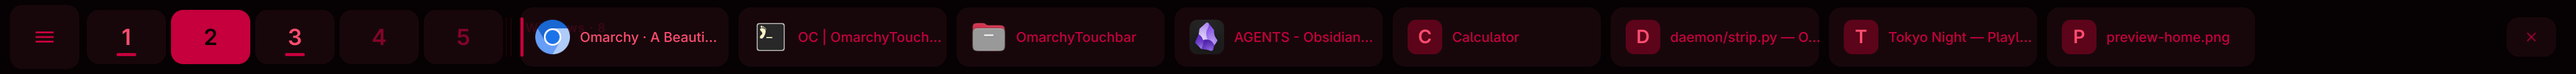
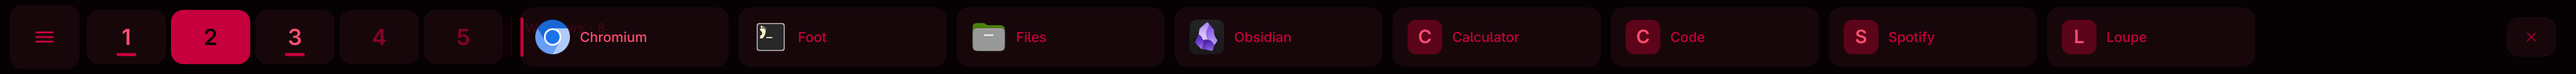
Paint app names in the window drawer, never window titles
The rendered SVG is published world-readable under /etc/tiny-dfr, so window
titles could expose document names or message subjects to other local users.
Titles now stop at hypr.py's parse: the drawer resolves a display name from the
desktop entry (or prettifies the class) and keeps the app icon. Several windows
of one app get an ordinal so they stay tellable apart.

diff --git a/daemon/icons.py b/daemon/icons.py
@@ -41,18 +41,30 @@ def _icon_theme() -> str:
     return name or "Adwaita"
 
 
+def _prettify_class(app_class: str) -> str:
+    """firefox -> Firefox, google-chrome -> Google Chrome, org.gnome.Foo -> Foo."""
+    tail = app_class.rsplit(".", 1)[-1]
+    tail = re.sub(r"[-_]+", " ", tail).strip()
+    if not tail:
+        return "Window"
+    return tail.title() if tail.islower() else tail
+
+
 class IconResolver:
     def __init__(self) -> None:
         self.theme = _icon_theme()
         self._desktop: dict[str, str] | None = None
         self._by_wm_class: dict[str, str] | None = None
+        self._app_names: dict[str, str] = {}
         self._cache: dict[str, str | None] = {}
+        self._name_cache: dict[str, str] = {}
 
     # -- desktop entries -----------------------------------------------------
 
     def _load_desktop_entries(self) -> None:
         by_id: dict[str, str] = {}
         by_class: dict[str, str] = {}
+        names: dict[str, str] = {}
         for directory in APP_DIRS:
             try:
                 entries = list(directory.iterdir())
@@ -61,19 +73,27 @@ class IconResolver:
             for entry in entries:
                 if entry.suffix != ".desktop":
                     continue
-                icon, wm_class = self._parse_desktop(entry)
+                name, icon, wm_class = self._parse_desktop(entry)
+                stem = entry.stem.lower()
+                if name:
+                    names.setdefault(stem, name)
+                    names.setdefault(stem.replace("_", "-"), name)
+                    if wm_class:
+                        names.setdefault(wm_class.lower(), name)
                 if not icon:
                     continue
-                stem = entry.stem
-                by_id.setdefault(stem.lower(), icon)
-                by_id.setdefault(stem.lower().replace("_", "-"), icon)
+                by_id.setdefault(stem, icon)
+                by_id.setdefault(stem.replace("_", "-"), icon)
                 if wm_class:
                     by_class.setdefault(wm_class.lower(), icon)
         self._desktop = by_id
         self._by_wm_class = by_class
+        self._app_names = names
 
     @staticmethod
-    def _parse_desktop(path: Path) -> tuple[str | None, str | None]:
+    def _parse_desktop(path: Path) -> tuple[str | None, str | None, str | None]:
+        """(Name, Icon, StartupWMClass) from a desktop entry's main section."""
+        name = None
         icon = None
         wm_class = None
         try:
@@ -82,31 +102,38 @@ class IconResolver:
                     line = handle.readline()
                     if not line:
                         break
-                    if line.startswith("Icon="):
+                    if line.startswith("Name="):
+                        name = line[5:].strip()
+                    elif line.startswith("Icon="):
                         icon = line[5:].strip()
                     elif line.startswith("StartupWMClass="):
                         wm_class = line[15:].strip()
                     elif line.startswith("[Desktop Action"):
                         break
         except OSError:
-            return None, None
-        return icon, wm_class
+            return None, None, None
+        return name, icon, wm_class
+
+    @staticmethod
+    def _candidates(app_class: str) -> list[str]:
+        key = app_class.strip().lower()
+        # org.gnome.Nautilus -> nautilus, md.obsidian.Obsidian -> obsidian
+        tail = key.rsplit(".", 1)[-1]
+        return [key, key + ".desktop", tail, tail + ".desktop"]
 
     def _icon_name_for(self, app_class: str) -> str:
         if self._desktop is None:
             self._load_desktop_entries()
         assert self._desktop is not None and self._by_wm_class is not None
-        key = app_class.strip().lower()
-        candidates = [key, key + ".desktop"]
-        # org.gnome.Nautilus -> nautilus, md.obsidian.Obsidian -> obsidian
-        tail = key.rsplit(".", 1)[-1]
-        candidates.extend([tail, tail + ".desktop"])
+        candidates = self._candidates(app_class)
         for candidate in candidates:
             if candidate in self._desktop:
                 return self._desktop[candidate]
             if candidate in self._by_wm_class:
                 return self._by_wm_class[candidate]
         # Many apps name their icon after the class or its last component.
+        key = app_class.strip().lower()
+        tail = key.rsplit(".", 1)[-1]
         return self._by_wm_class.get(key) or tail or key
 
     # -- icon files ----------------------------------------------------------
@@ -156,7 +183,35 @@ class IconResolver:
         self.theme = _icon_theme()
         self._desktop = None
         self._by_wm_class = None
+        self._app_names = {}
         self._cache.clear()
+        self._name_cache.clear()
+
+    def app_name(self, app_class: str) -> str:
+        """Human-readable app name for a window class.
+
+        The drawer paints this instead of the window title: titles can contain
+        document names and message subjects, and the rendered SVG is published
+        world-readable under /etc/tiny-dfr. Desktop-entry Name= and the class
+        itself are public app identity, so they are safe to paint.
+        """
+        key = (app_class or "").strip()
+        if not key:
+            return "Window"
+        if key in self._name_cache:
+            return self._name_cache[key]
+        if self._desktop is None:
+            self._load_desktop_entries()
+        name = ""
+        for candidate in self._candidates(key):
+            found = self._app_names.get(candidate)
+            if found:
+                name = found
+                break
+        if not name:
+            name = _prettify_class(key)
+        self._name_cache[key] = name
+        return name
 
     def data_uri(self, app_class: str) -> str | None:
         key = (app_class or "").strip()

diff --git a/daemon/strip.py b/daemon/strip.py
@@ -83,17 +83,27 @@ class Strip:
 
     def refresh_windows(self, *, force: bool = False) -> None:
         icon_enabled = bool(self.settings.get("window_icons", True))
-        windows = tuple(
-            {
-                "address": window.get("address") or "",
-                "title": window.get("title") or window.get("class") or "Window",
-                "active": bool(window.get("active")),
-                "icon": self.icons.data_uri(window.get("class") or "")
-                if icon_enabled
-                else None,
-            }
-            for window in self.hypr.windows
-        )
+        windows = []
+        seen: dict[str, int] = {}
+        for window in self.hypr.windows:
+            app_class = window.get("class") or ""
+            app = self.icons.app_name(app_class)
+            seen[app] = seen.get(app, 0) + 1
+            windows.append(
+                {
+                    "address": window.get("address") or "",
+                    # App name only. Window titles can carry document names and
+                    # message subjects, and the rendered SVG is published
+                    # world-readable under /etc/tiny-dfr. The ordinal keeps
+                    # several windows of one app tellable apart.
+                    "app": app if seen[app] == 1 else f"{app} · {seen[app]}",
+                    "active": bool(window.get("active")),
+                    "icon": self.icons.data_uri(app_class)
+                    if icon_enabled
+                    else None,
+                }
+            )
+        windows = tuple(windows)
         if windows == self.windows and not force:
             return
         self.windows = windows

diff --git a/daemon/preview.py b/daemon/preview.py
@@ -50,14 +50,14 @@ WORKSPACES = (
 )
 
 WINDOWS = (
-    ("chromium", "Omarchy · A Beautiful Way to Use Arch"),
-    ("foot", "OC | OmarchyTouchbar"),
-    ("org.gnome.Nautilus", "OmarchyTouchbar"),
-    ("md.obsidian.Obsidian", "AGENTS - Obsidian Vault"),
-    ("org.gnome.Calculator", "Calculator"),
-    ("code", "daemon/strip.py — OmarchyTouchbar"),
-    ("spotify", "Tokyo Night — Playlist"),
-    ("org.gnome.Loupe", "preview-home.png"),
+    "chromium",
+    "foot",
+    "org.gnome.Nautilus",
+    "md.obsidian.Obsidian",
+    "org.gnome.Calculator",
+    "code",
+    "spotify",
+    "org.gnome.Loupe",
 )
 
 
@@ -65,11 +65,11 @@ def window_cards(icons: IconResolver) -> tuple[dict, ...]:
     return tuple(
         {
             "address": f"0x{index:012x}",
-            "title": title,
+            "app": icons.app_name(app_class),
             "active": index == 0,
             "icon": icons.data_uri(app_class),
         }
-        for index, (app_class, title) in enumerate(WINDOWS)
+        for index, app_class in enumerate(WINDOWS)
     )
 
 

diff --git a/daemon/render.py b/daemon/render.py
@@ -530,16 +530,16 @@ class Renderer:
                 )
             else:
                 out.append(rect(icon_x - 14, card.cy - 14, 28, 28, p.raised, 7))
-                initial = (window.get("title") or "?").strip()[:1].upper()
+                initial = (window.get("app") or "?").strip()[:1].upper()
                 out.append(
                     text(icon_x, card.cy + 5, initial, 15, p.fg_bright, 600, "middle")
                 )
-            title_x = card.x + 48
+            label_x = card.x + 48
             out.append(
                 text(
-                    title_x,
+                    label_x,
                     card.cy + 4,
-                    ellipsize(window.get("title") or "", 11, card.right - title_x - 10),
+                    ellipsize(window.get("app") or "", 11, card.right - label_x - 10),
                     11,
                     p.fg_bright if active else p.fg,
                     500,

diff --git a/daemon/hypr.py b/daemon/hypr.py
@@ -192,7 +192,8 @@ class Hyprland:
                 {
                     "address": client.get("address") or "",
                     "class": client.get("class") or client.get("initialClass") or "",
-                    "title": client.get("title") or "",
+                    # The title is deliberately not kept: it can contain private
+                    # document names, and nothing downstream may paint it.
                     "active": False,
                     "history": client.get("focusHistoryID", 999),
                 }

diff --git a/README.md b/README.md
@@ -21,8 +21,8 @@ nothing to style by hand.
 [![Controls drawer with brightness and volume sliders](docs/screenshots/controls.png)](docs/screenshots/controls.png)
 *Controls — brightness and volume side by side, with mute and close.*
 
-[![Window drawer with app icons](docs/screenshots/windows.png)](docs/screenshots/windows.png)
-*Windows — every window on the active workspace, with app icons.*
+[![Window drawer with app icons and app names](docs/screenshots/windows.png)](docs/screenshots/windows.png)
+*Windows — every window on the active workspace as an app card.*
 
 [![Vitals drawer with CPU, GPU, RAM, fan, network and disk](docs/screenshots/vitals.png)](docs/screenshots/vitals.png)
 *Vitals — CPU, GPU, RAM, fan, network, disk and free space.*
@@ -39,9 +39,10 @@ nothing to style by hand.
   block and a control strip.
 - **Workspaces** light up when occupied and follow Hyprland immediately through
   its event socket.
-- **Window drawer**: tap the active workspace to see every window on it with
-  its app icon. Tap a card to focus it, drag the row to scroll, tap outside or
-  wait eight seconds to close.
+- **Window drawer**: tap the active workspace to see every window on it as an
+  app card with icon and app name. Window titles are never painted, so private
+  document names cannot end up in the rendered SVG. Tap a card to focus it, drag
+  the row to scroll, tap outside or wait eight seconds to close.
 - **Controls drawer**: brightness and volume side-by-side, each with tick marks
   and a macOS-style percentage readout, plus a mute toggle.
 - **System vitals**: CPU temperature + usage, GPU clock + usage, RAM, fan and
@@ -178,7 +179,7 @@ Everything is optional. Create `~/.config/omarchy-touchbar/config.json`:
 | `slider_step` | Volume slider resolution, in percent. |
 | `workspace_count` | Workspaces shown (1–9; more would squeeze the actions). |
 | `workspace_first` | ID of the leftmost workspace. |
-| `window_icons` | Resolve app icons for the window drawer. |
+| `window_icons` | Resolve app icons for the window drawer; app names are drawn either way. |
 | `busy_seconds` | Sample every second for this long after the last touch. |
 | `sleep_seconds` | Stop sampling after this much idle time until the next touch. |
 | `font_family` | Font stack used inside the SVG. |
